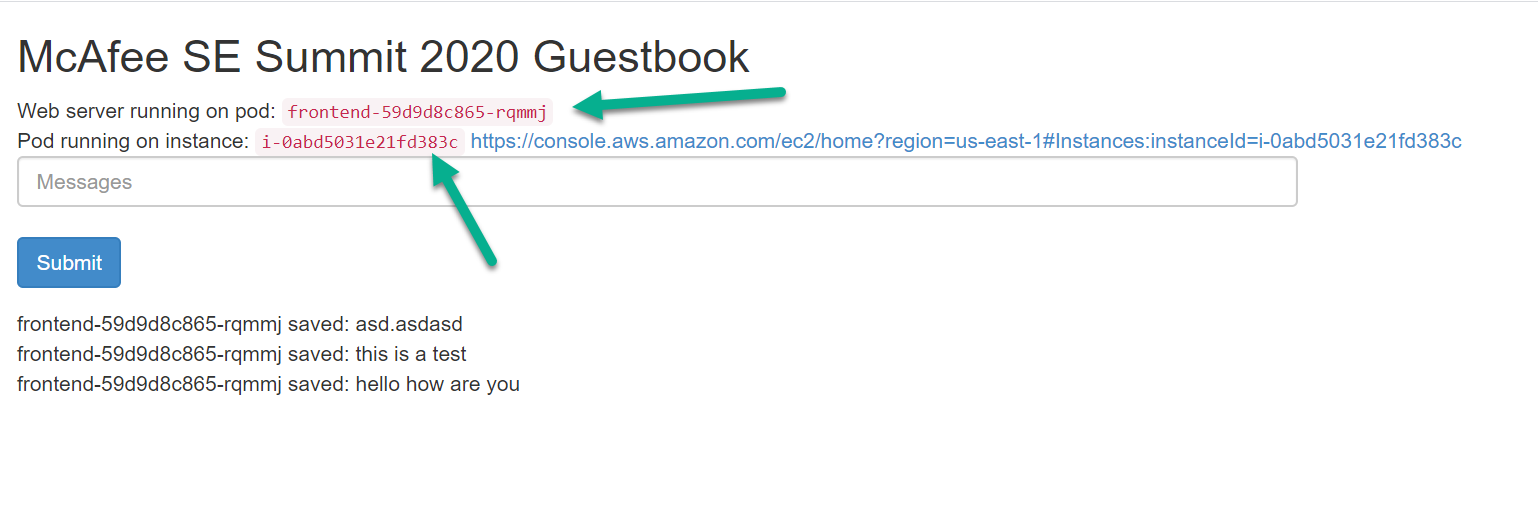
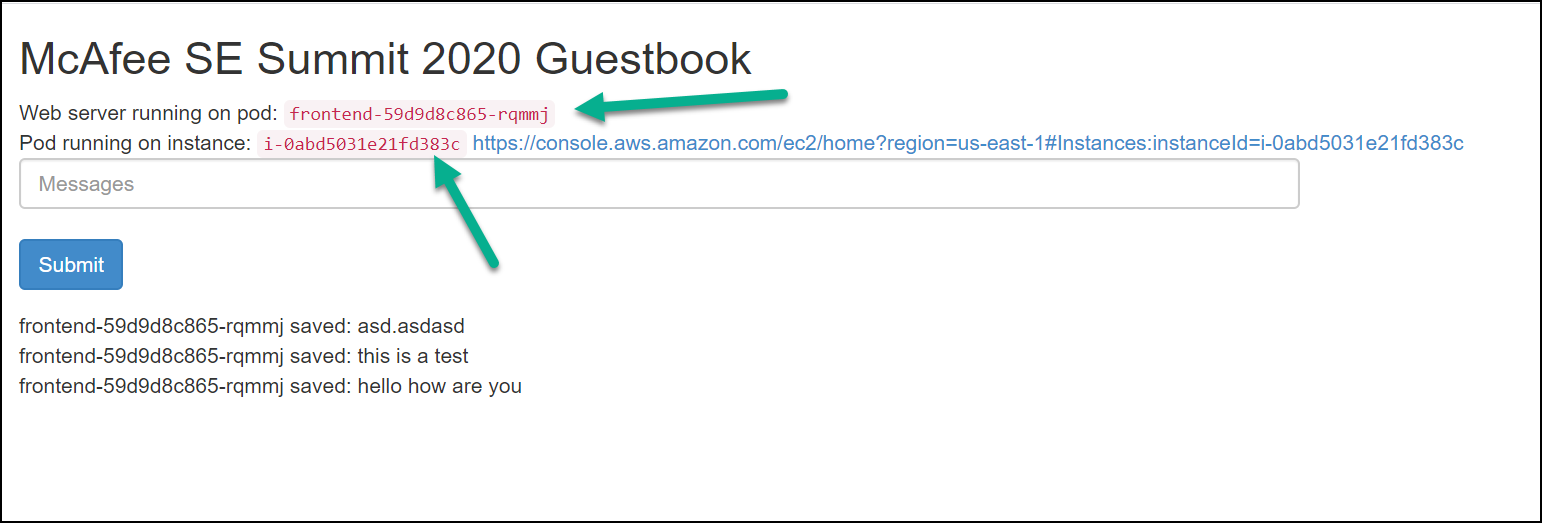
updates

diff --git a/content/030_container/050_deployguestbook/scalefrontenservice.md b/content/030_container/050_deployguestbook/scalefrontenservice.md
@@ -45,7 +45,7 @@ Scaling up or down is easy because your servers are defined as a Service that us
 
 5. Browse to Guestbook application using the DNS name of your Load Balancer.  Continue refreshing the page to witness the values change for the pod running the webserver and the instance that the pod runs on. This demonstrates the dynamic nature of the Web server that is being connected to, as well as the EC2 server pool that spans across multiple Availability Zones (AZ).
 In the guestbook perform some operations and reloads and see how the POD name and instance ID change between requests. 
-![microservices](/images/mfe/guestbook.png)
+![microservices](/images/mfe/guestbook.png?classes=border,shadow)
 
 6. Once you've completed step 5, you can scale in the number of pods to the inital value of 1.
 

diff --git a/content/030_container/040_dashboard/10_dashboard.md b/content/030_container/040_dashboard/10_dashboard.md
@@ -19,7 +19,7 @@ kubectl apply -f https://raw.githubusercontent.com/kubernetes/dashboard/v2.0.0-b
 ```
 
 This results in the following output:
-![dashinstalloutput](/images/mfe/dashinstalloutput.jpg)
+![dashinstalloutput](/images/mfe/dashinstalloutput.jpg?classes=border,shadow)
 
 The command above is a great example on how dynamic the kubernetes and conatiner tools are built. By specifying a URL that point to a configuration (in YAML format here) the tool automatically downlaod the specifications and deploys a full application including all required infrastructure. 
 

diff --git a/content/030_container/050_deployguestbook/elbsetup.md b/content/030_container/050_deployguestbook/elbsetup.md
@@ -83,4 +83,4 @@ You should also be able to copy/paste the loadBalancer hostname into your browse
 Keep this tab open while we scale the services up on the next page.
 
 Check out the display of the POD name and the name of the instance the POD is running on:
-![microservices](/images/mfe/guestbook.png)
+![microservices](/images/mfe/guestbook.png?classes=border,shadow)

diff --git a/content/030_container/050_deployguestbook/exploreindash.md b/content/030_container/050_deployguestbook/exploreindash.md
@@ -14,6 +14,7 @@ Login back to the Kubernetes Dashboard see <a href="/040_dashboard/20_connect">C
 
 #### Investigate the Deployment
 need content
+{{<todo>}}need content{{</todo>}}
 
 #### Investigate the Replica Sets
 need content
